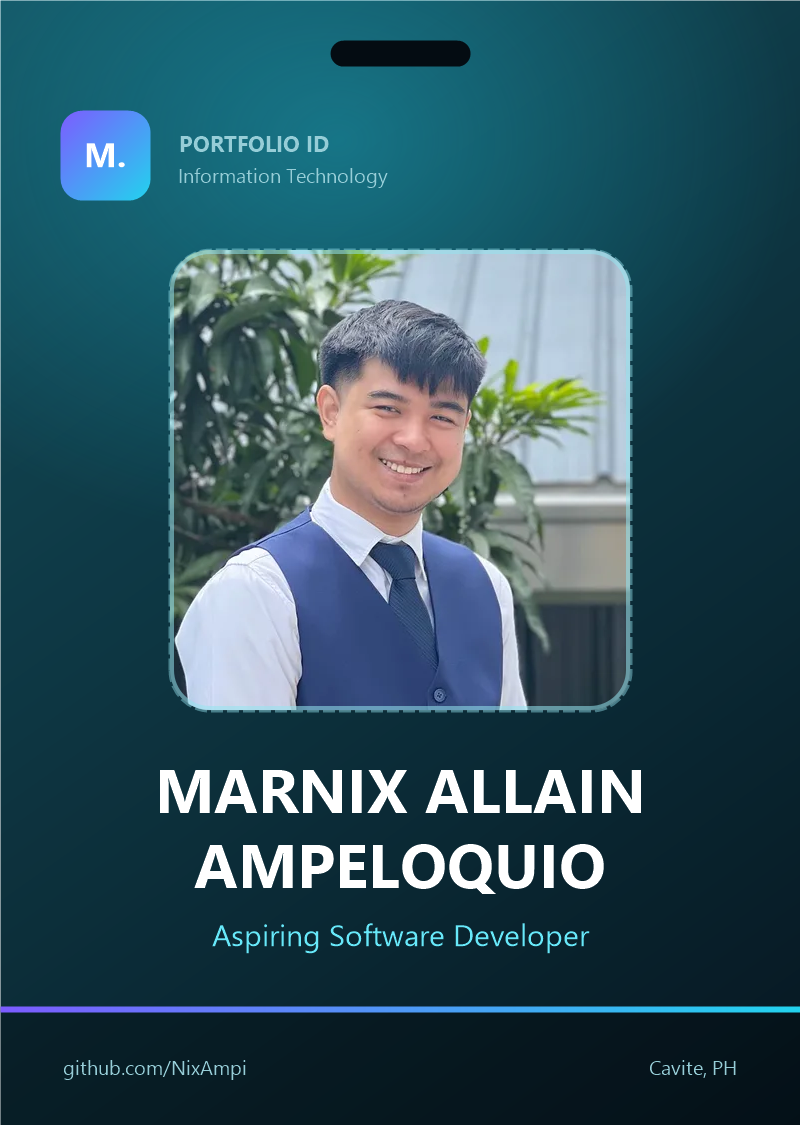
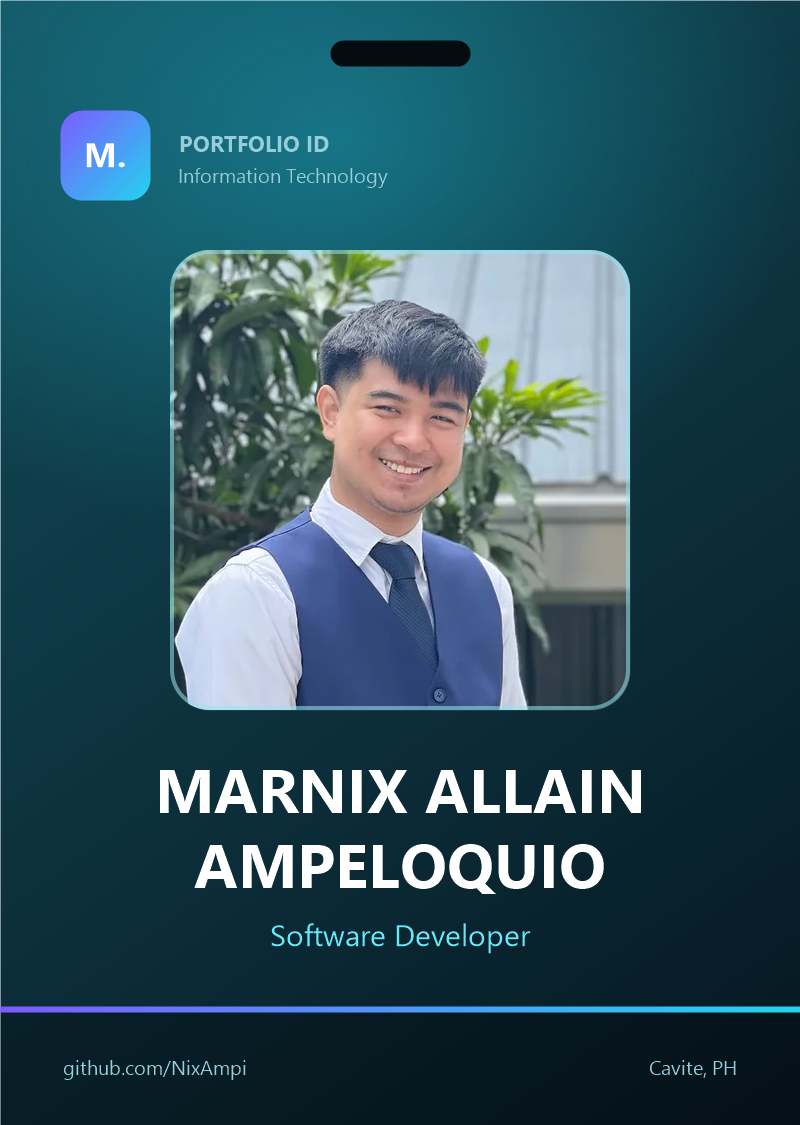
Change role to Software Developer

Changed region(s): [[0.25, 0.8089, 0.625, 0.84], [0.6562, 0.8089, 0.7188, 0.84]]

diff --git a/data/profile.ts b/data/profile.ts
@@ -5,7 +5,7 @@ export const profile = {
   shortName: "Marnix",
   /** The hero heading breaks the name across these two lines. */
   nameLines: ["Marnix Allain", "Ampeloquio"] as const,
-  role: "Aspiring Software Developer",
+  role: "Software Developer",
   status: "Open for Internship / Entry-Level Roles",
   tagline:
     "I build clean, reliable, and user-friendly digital solutions using Python, databases, web technologies, and modern development practices.",
